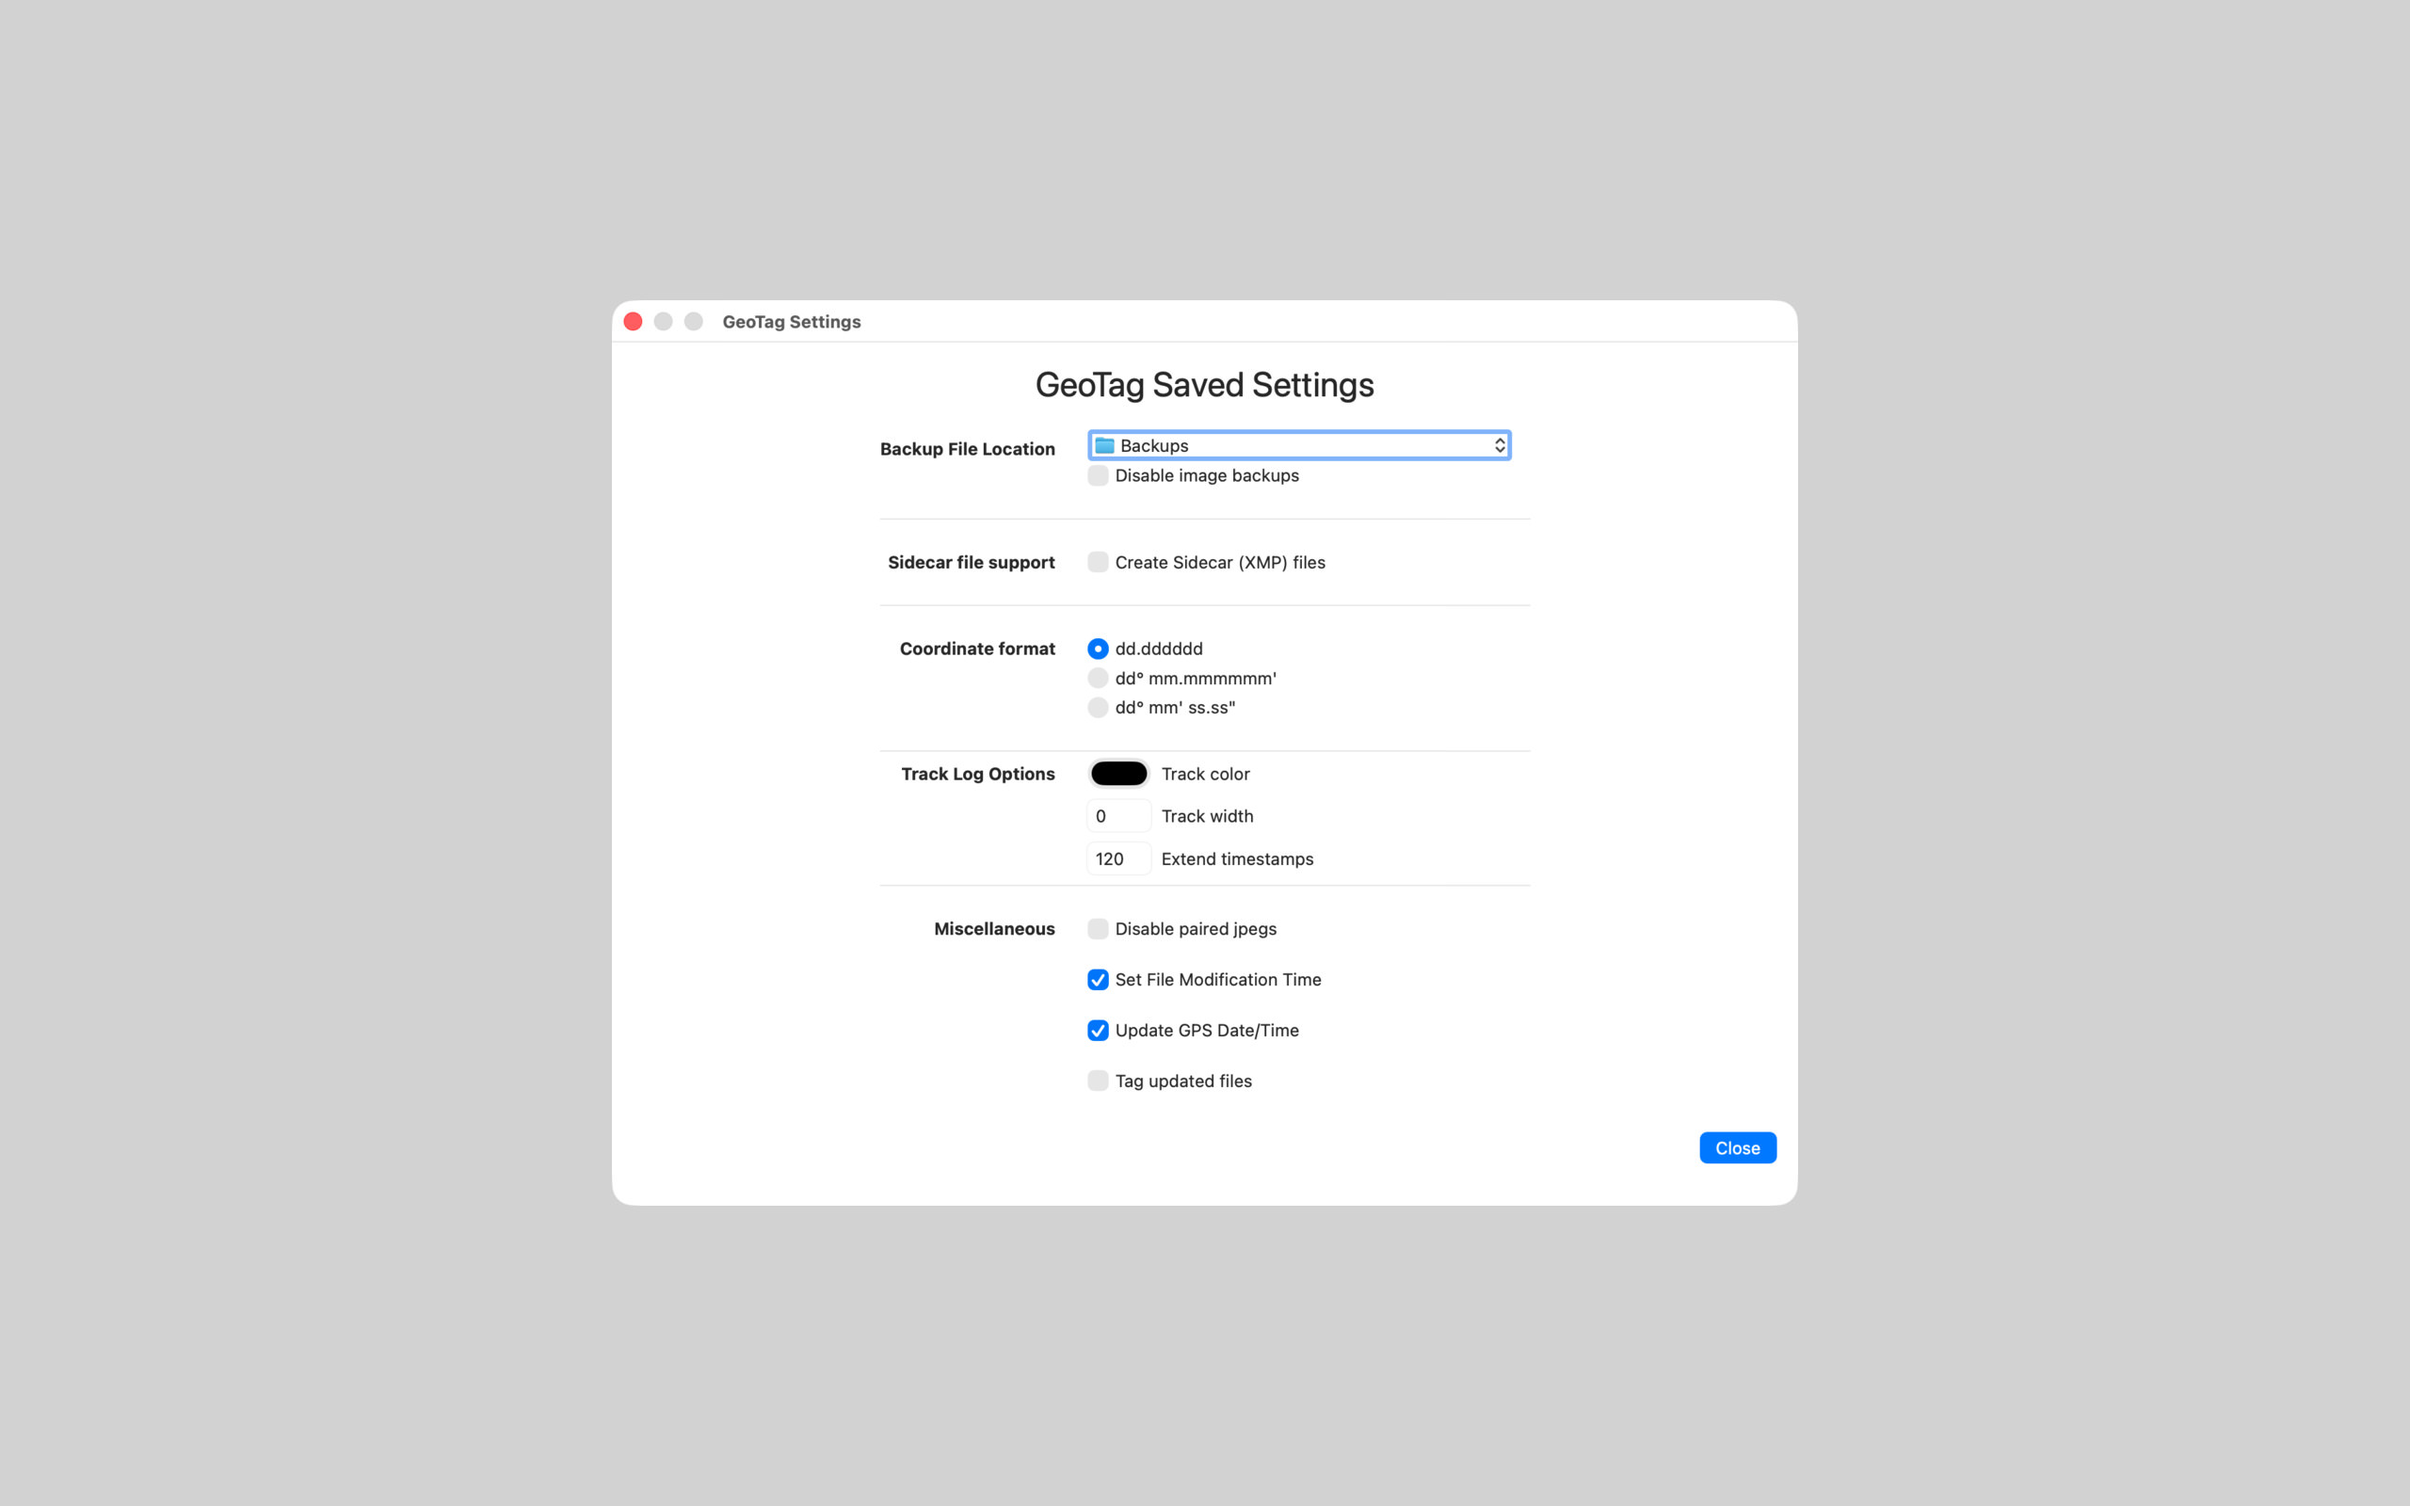
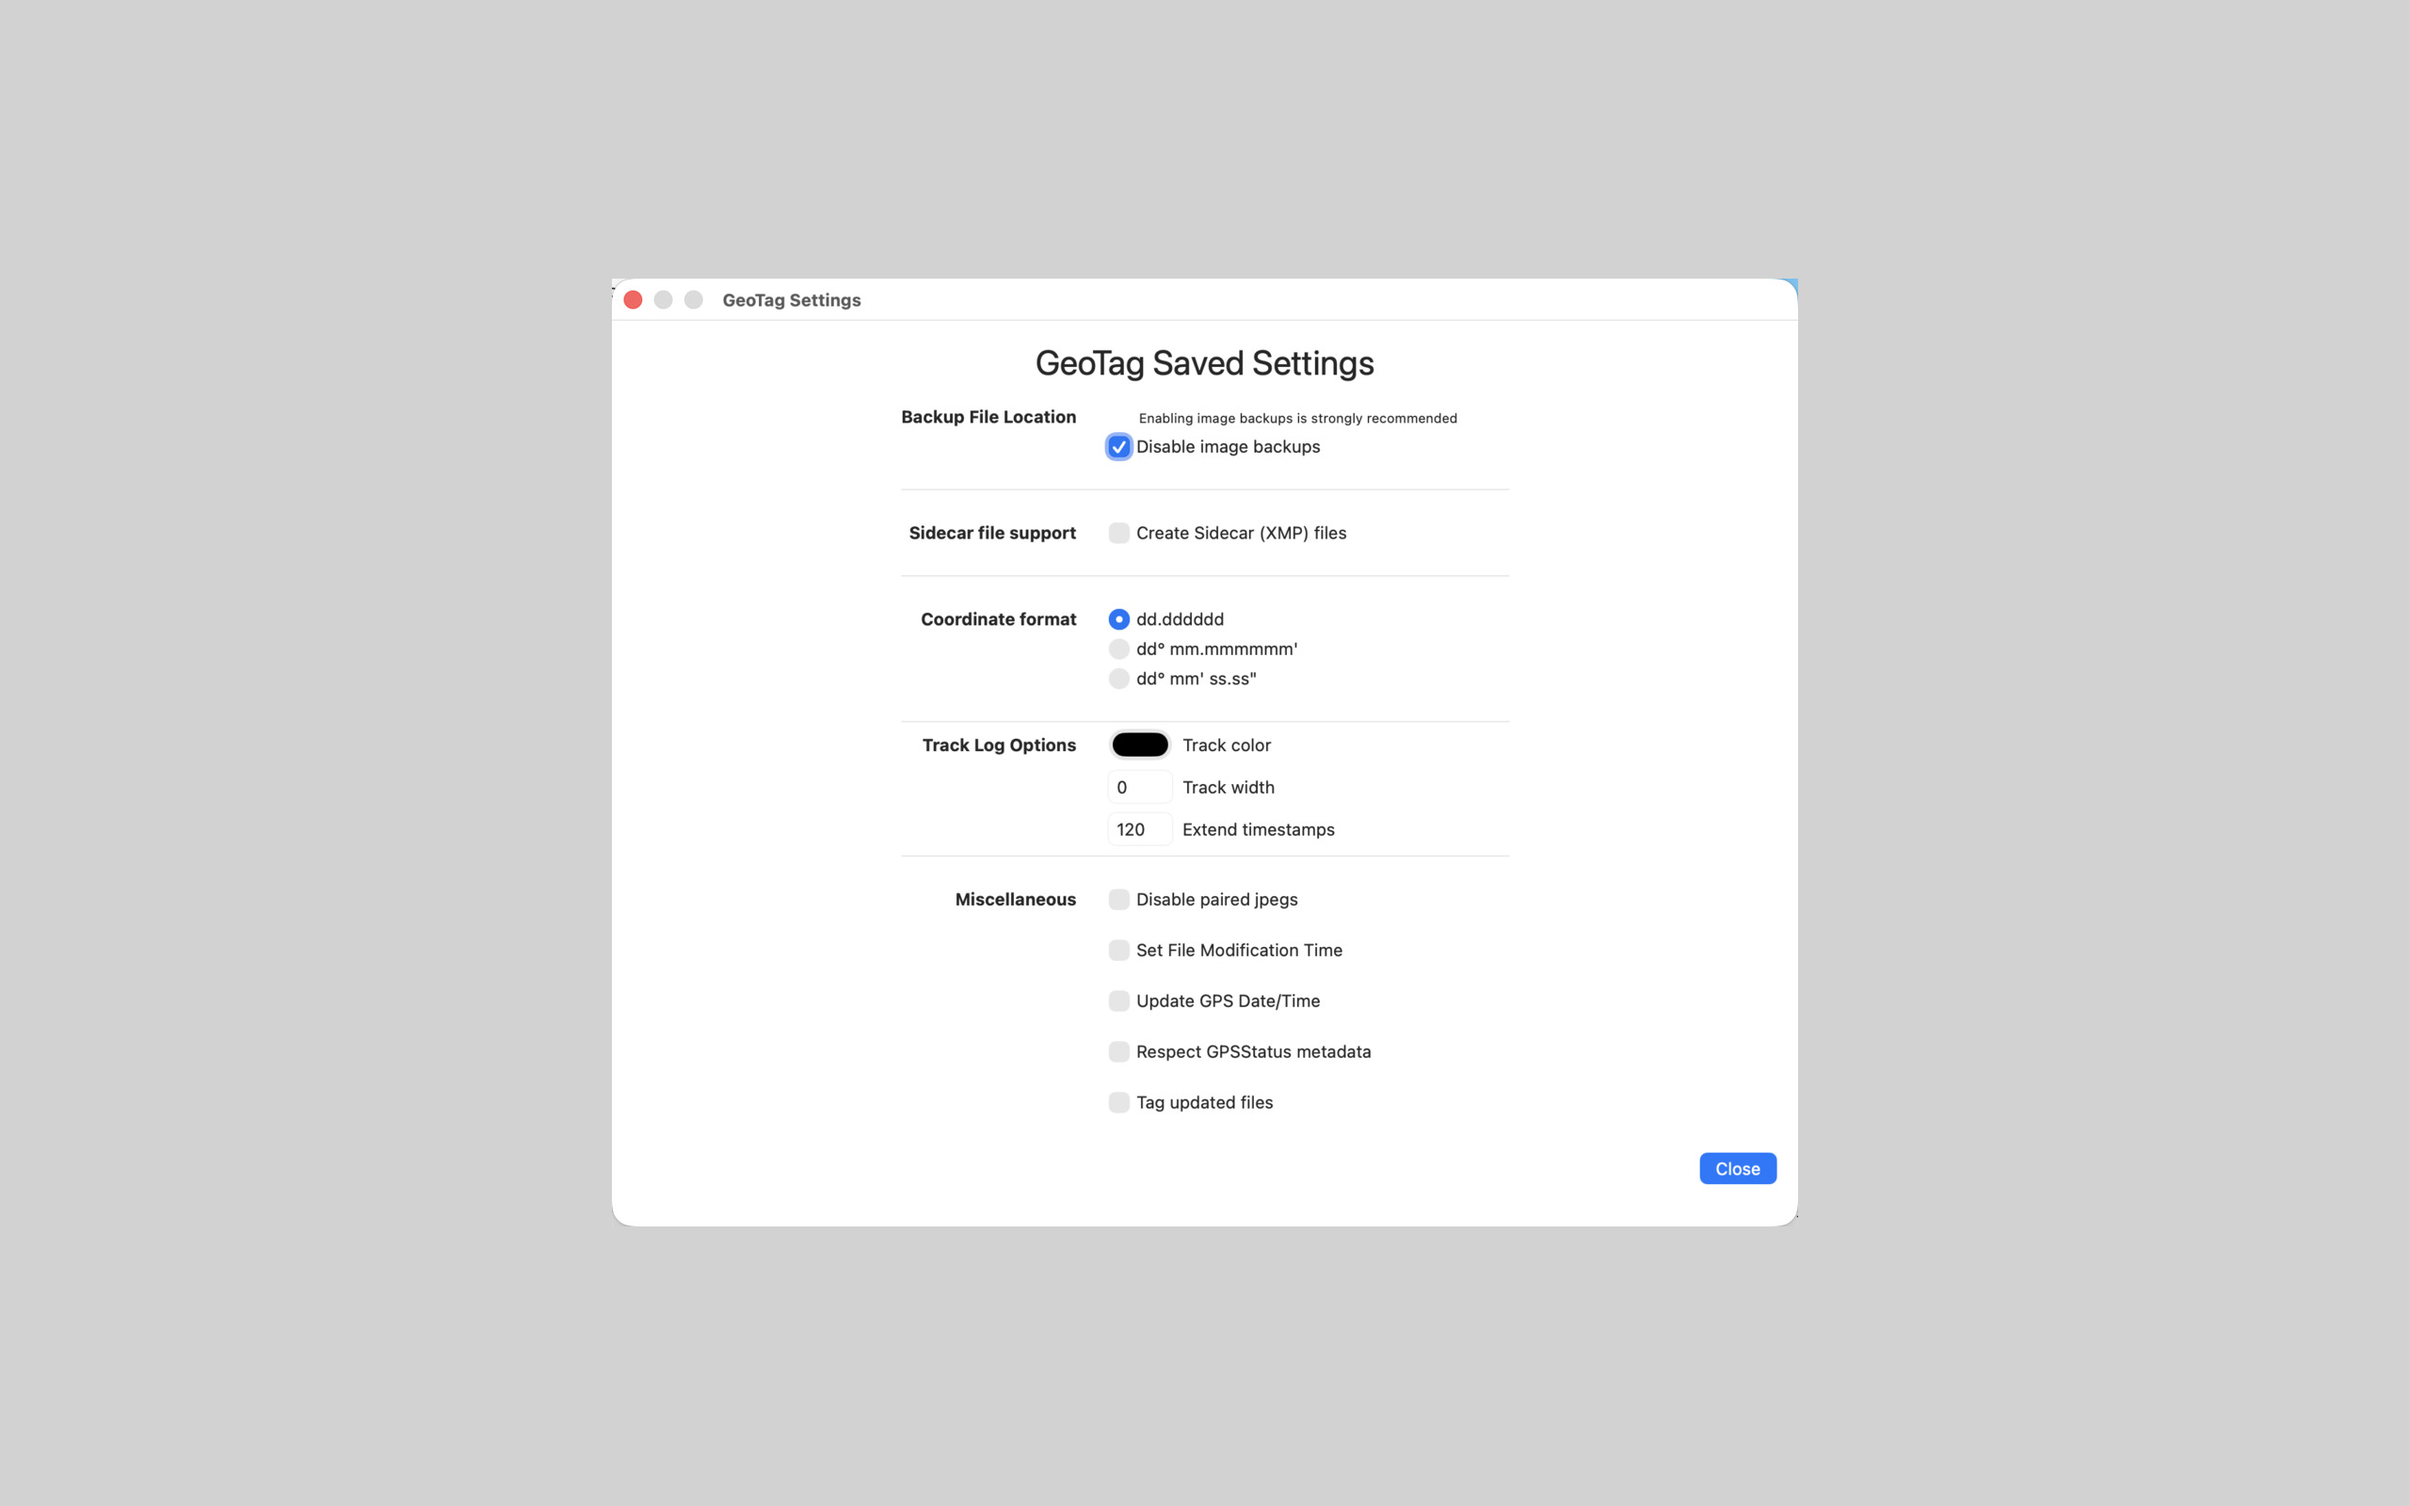
Test changes to match useGpsStatus code changes
Pass required arg during test. Update Settings test image.
Update app stores screenshots settings image.

Changed region(s): [[0.25, 0.1875, 0.75, 0.375], [0.375, 0.4062, 0.5625, 0.75], [0.25, 0.75, 0.75, 0.8125]]

diff --git a/Exiftool/Tests/ExiftoolTests/ExiftoolTest.swift b/Exiftool/Tests/ExiftoolTests/ExiftoolTest.swift
@@ -103,7 +103,9 @@ struct ExiftoolTests {
 
         // Extract needed data from the created sidecar file
 
-        let metadata = Exiftool.helper.metadata(from: sidecar, primaryURL: copy)
+        let metadata = Exiftool.helper.metadata(from: sidecar,
+                                                primaryURL: copy,
+                                                useGpsStatus: false)
         #expect(metadata.dateTimeCreated == "2025:12:03 16:25:49")
         #expect(metadata.location?.latitude == 37.51878611116667)
         #expect(metadata.location?.longitude == -122.34516111116666)
@@ -137,7 +139,9 @@ struct ExiftoolTests {
 
         // Extract needed data from the created sidecar file
 
-        let newData = Exiftool.helper.metadata(from: sidecar, primaryURL: copy)
+        let newData = Exiftool.helper.metadata(from: sidecar,
+                                               primaryURL: copy,
+                                               useGpsStatus: false)
 
         // Extract the same data from an existing sidecar file
 
@@ -146,7 +150,8 @@ struct ExiftoolTests {
                               withExtension: "xmp")
         )
         let oldData = Exiftool.helper.metadata(from: oldSidecar,
-                                               primaryURL: testImage)
+                                               primaryURL: testImage,
+                                               useGpsStatus: false)
 
         #expect(newData == oldData)
     }
@@ -208,7 +213,8 @@ struct ExiftoolSerializedTests {
             FileAttributeKey.creationDate] as? Date
 
         // grab metadata from the image file
-        var metadata = Exiftool.helper.metadata(from: nil, primaryURL: copy)
+        var metadata = Exiftool.helper.metadata(from: nil, primaryURL: copy,
+                                                useGpsStatus: false)
         makeTestData(&metadata)
 
         // run
@@ -216,7 +222,8 @@ struct ExiftoolSerializedTests {
                                          timeZone: nil)
 
         // verify results
-        let newdata = Exiftool.helper.metadata(from: nil, primaryURL: copy)
+        let newdata = Exiftool.helper.metadata(from: nil, primaryURL: copy,
+                                               useGpsStatus: false)
         #expect(newdata == metadata)
 
         // see if the file modification date was updated if requested
@@ -293,7 +300,8 @@ struct ExiftoolSerializedTests {
 
         // grab metadata from the xmp file
         var metadata = Exiftool.helper.metadata(from: xmpCopy,
-                                                primaryURL: copy)
+                                                primaryURL: copy,
+                                                useGpsStatus: false)
         makeTestData(&metadata)
 
         // run
@@ -302,7 +310,8 @@ struct ExiftoolSerializedTests {
 
         // verify results
         let newdata = Exiftool.helper.metadata(from: xmpCopy,
-                                               primaryURL: copy)
+                                               primaryURL: copy,
+                                               useGpsStatus: false)
         #expect(newdata == metadata)
 
         // see if the file modification date was updated if requested

diff --git a/ImageData/Tests/ImageDataTests/ImageDataTests.swift b/ImageData/Tests/ImageDataTests/ImageDataTests.swift
@@ -29,7 +29,7 @@ struct ImageDataTests {
             Bundle.module.url(forResource: "alldata",
                               withExtension: "jpg")
         )
-        let imageData = ImageData(from: url)
+        let imageData = ImageData(from: url, useGpsStatus: false)
         #expect(imageData.name == "alldata.jpg")
         #expect(imageData.updatable)
         #expect(imageData.fullPath == url.path)
@@ -40,7 +40,7 @@ struct ImageDataTests {
             Bundle.module.url(forResource: "262M1559",
                               withExtension: "DNG")
         )
-        let imageData = ImageData(from: url)
+        let imageData = ImageData(from: url, useGpsStatus: false)
         #expect(imageData.name == "262M1559.DNG*")
         #expect(imageData.updatable)
         #expect(imageData.fullPath == url.path)

diff --git a/GeoTagTests/ReducerTests2.swift b/GeoTagTests/ReducerTests2.swift
@@ -77,13 +77,13 @@ extension ReducerTests {
 
         let dng = try #require(Bundle.main.url(forResource: "L1000051",
                                                withExtension: "DNG"))
-        var dngItem = ImageData(from: dng)
+        var dngItem = ImageData(from: dng, useGpsStatus: false)
         dngItem.original = Metadata(copying: dngItem.metadata)
         state.imageData.append(dngItem)
 
         let jpg = try #require(Bundle.main.url(forResource: "L1000051",
                                                withExtension: "JPG"))
-        var jpgItem = ImageData(from: jpg)
+        var jpgItem = ImageData(from: jpg, useGpsStatus: false)
         jpgItem.original = Metadata(copying: jpgItem.metadata)
         state.imageData.append(jpgItem)
 

diff --git a/ImageData/Tests/ImageDataTests/ThumbnailTests.swift b/ImageData/Tests/ImageDataTests/ThumbnailTests.swift
@@ -15,7 +15,7 @@ struct ThumbnailTests {
             Bundle.module.url(forResource: "alldata",
                               withExtension: "jpg")
         )
-        let imageData = ImageData(from: url)
+        let imageData = ImageData(from: url, useGpsStatus: false)
         let image = await imageData.makeThumbnail(scale: 1.0)
         #expect(image != badImage)
     }
@@ -25,7 +25,7 @@ struct ThumbnailTests {
             Bundle.module.url(forResource: "262M1559",
                               withExtension: "DNG")
         )
-        let imageData = ImageData(from: url)
+        let imageData = ImageData(from: url, useGpsStatus: false)
         let image = await imageData.makeThumbnail(scale: 1.0)
         #expect(image != badImage)
     }

diff --git a/Imagetool/Sources/Imagetool/Imagetool.swift b/Imagetool/Sources/Imagetool/Imagetool.swift
@@ -12,6 +12,7 @@ public struct Imagetool {
 
     // read metadata from an image referenced by URL using ImageIO functions
 
+    // swiftlint:disable:next cyclomatic_complexity
     public static func metadata(from imageURL: URL,
                                 useGpsStatus: Bool) -> Metadata {
         var metadata = Metadata(source: .image(imageURL))
